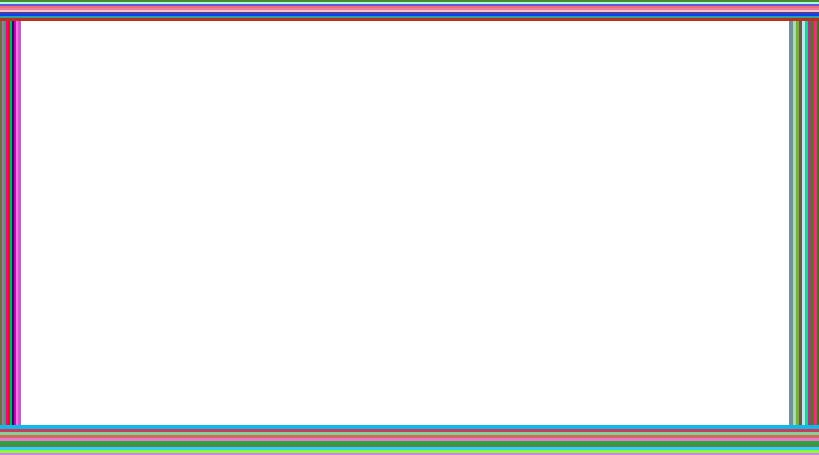
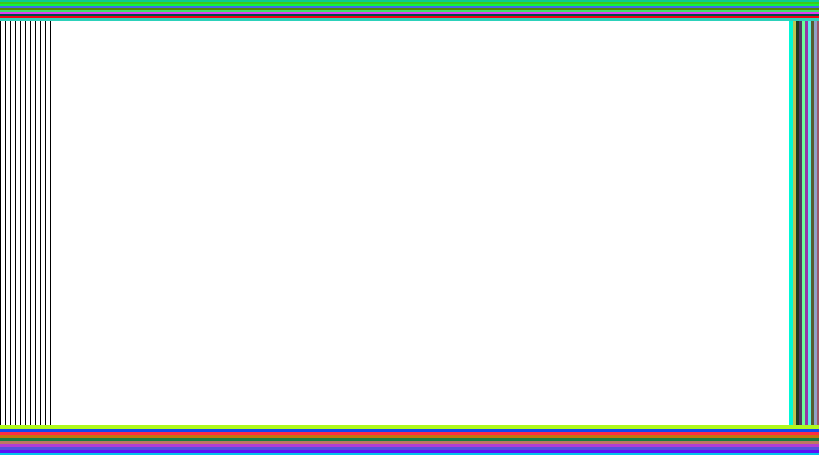
black

Changed region(s): [[0.0, 0.0, 1.0, 1.0]]

diff --git a/basicShapes.py b/basicShapes.py
@@ -24,14 +24,13 @@ def basic_shapes():
     cv2.imwrite("basic_shapes.png", image)
 
 def boundary():
-    top_left = (0, 0)
-    bottom_right = tuple(map(int, (((width/16)/2)/10, height) ))
-    for i in range(10):   
-        color1 = (list(np.random.choice(range(256), size=3)))  
-        color =[int(color1[0]), int(color1[1]), int(color1[2])]  
-        cv2.rectangle(image,top_left,bottom_right, color,-1)
-        top_left=tuple(map(int,(bottom_right[0], top_left[1]) ))
-        bottom_right=tuple(map(int, (bottom_right[0]+((width/16)/2)/10, bottom_right[1]) ))
+    pt1 = (0, 0)
+    pt2=(0, height)
+    for i in range(0, int(width/16), 5):  
+        pt1 = (i, 0)
+        pt2 = (i, height) 
+        cv2.line(image,pt1,pt2,(0,0,0),1)
+        
     top_left = tuple(map(int, (width-((width/16)/2)/10, 0) ))
     bottom_right = tuple(map(int, (width, height) ))
     for i in range(10):
